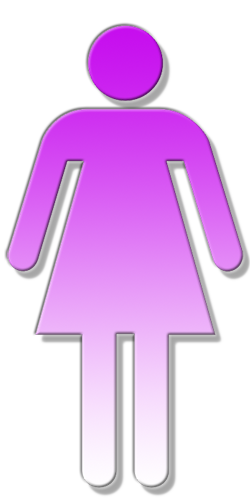
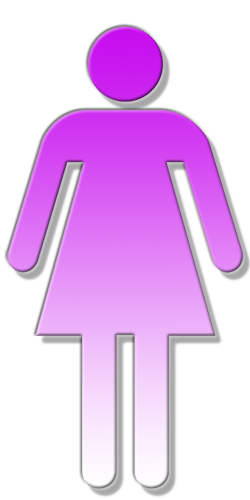
Bilder auf free-commercial-use geändert

diff --git a/src/app/person-details/person-details.component.html b/src/app/person-details/person-details.component.html
@@ -1,16 +1,16 @@
 <div class="container">
-  <div class="card" style="width: 35rem;">
+  <div class="card" style="width: 50rem;">
     <img *ngIf="personDetail.anrede=='Divers'" class="card-img-top"
-         src="../../assets/images/divers.png" height="250"
-         width="250" alt="Divers">
+         src="../../assets/images/divers.png" height="500"
+         width="500" alt="Divers">
     <img *ngIf="personDetail.anrede=='Herr'" class="card-img-top"
-         src="../../assets/images/herr.png" height="250"
+         src="../../assets/images/herr.png" height="500"
          width="250" alt="Herr">
     <img *ngIf="personDetail.anrede=='Frau'" class="card-img-top"
-         src="../../assets/images/frau.png" height="250"
+         src="../../assets/images/frau.png" height="500"
          width="250" alt="Frau">
     <img *ngIf="personDetail.anrede==undefined" class="card-img-top"
-         src="../../assets/images/unbekannt.png" height="250"
+         src="../../assets/images/unbekannt.png" height="500"
          width="250" alt="Unbekannt">
     <div class="card-body">
       <h3 class="card-title">Person Id:{{personDetail.id}}</h3>

diff --git a/src/app/kurs-details/kurs-details.component.html b/src/app/kurs-details/kurs-details.component.html
@@ -1,5 +1,5 @@
 <div class="container">
-  <div class="card" style="width: 35rem;">
+  <div class="card" style="width: 50rem;">
     <img class="card-img-top"
     src="../../assets/images/kurs.png" height="250"
     width="250" alt="Kursdetails">
